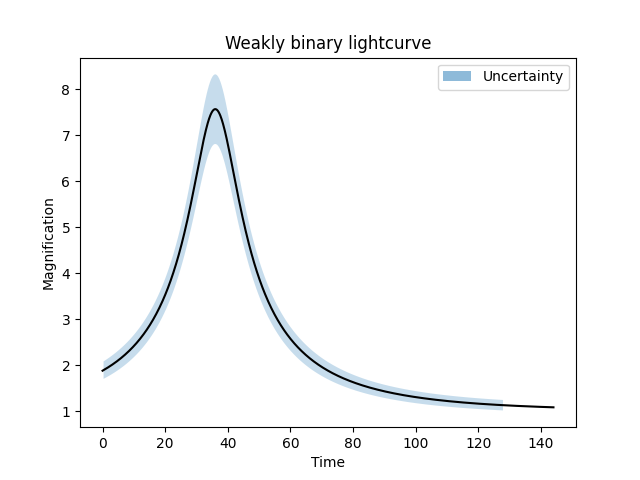
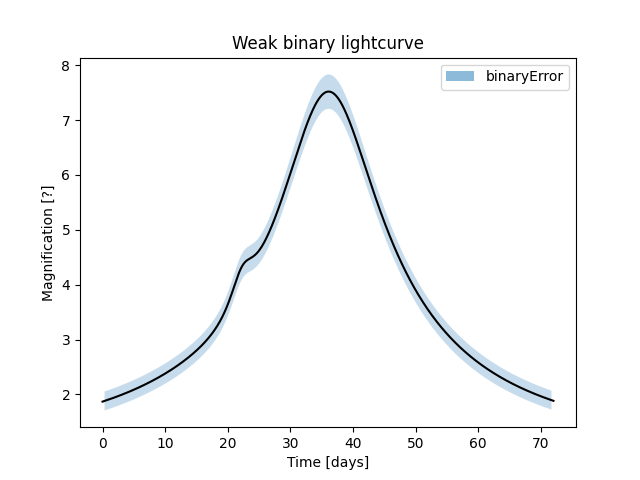
log steps, jacobian

diff --git a/Functions.py b/Functions.py
@@ -10,7 +10,7 @@ from numpy.lib.function_base import cov
 import numpy as np
 from numpy.core.numeric import Inf
 from scipy.stats import truncnorm, lognorm, norm, loguniform, uniform, multivariate_normal
-
+import copy
 
 
 class uniDist(object):
@@ -105,14 +105,14 @@ def AdaptiveMCMC(m, data, theta, priors, covariance, burns, iterations):
     c: a list of values for each iteration, 1 if the move was accepted, 0 otherwise
     '''
 
-    if burns <= 10:
+    if burns <= 0: #
         raise ValueError("Not enough iterations to safely establish an empirical covariance matrix")
     
     # initialise
     d = len(theta)
 
     I = np.identity(d)
-    s = 2.4**2 / d # Arbitrary, good value from Haario et al
+    s = 2.4**2 / d # Arbitrary(ish), good value from Haario et al
     eps = 1e-12 # Needs to be smaller than the scale of parameter values
 
     c = np.zeros((iterations + burns))
@@ -128,7 +128,7 @@ def AdaptiveMCMC(m, data, theta, priors, covariance, burns, iterations):
     for i in range(1, burns): # warm up walk to establish an empirical covariance
         # propose a new state and calculate the resulting likelihood and prior ratio
         proposed = GaussianProposal(theta, covariance)
-        piProposed = logLikelihood(m, data, proposed)
+        piProposed = logLikelihood(m, data, proposed, priors)
         priorRatio = np.exp(PriorRatio(m, m, theta, proposed, priors))
 
         if random.random() < priorRatio * np.exp(piProposed - pi): # metropolis acceptance using log rules
@@ -142,14 +142,14 @@ def AdaptiveMCMC(m, data, theta, priors, covariance, burns, iterations):
         means[:, i] = (means[:, i-1]*i + theta)/(i + 1) # recursive mean (offsets indices starting at zero by one)
 
     # initiliase empirical covaraince
-    covariance = s*np.cov(states) + s*eps*I
+    covariance = s*np.cov(states[:, 0:burns]) + s*eps*I
     
     t = burns # global index
 
     for i in range(iterations): # adaptive walk
         # propose a new state and calculate the resulting likelihood and prior ratio
         proposed = GaussianProposal(theta, covariance)
-        piProposed = logLikelihood(m, data, proposed)
+        piProposed = logLikelihood(m, data, proposed, priors)
         priorRatio = np.exp(PriorRatio(m, m, theta, proposed, priors))
 
         if random.random() < priorRatio * np.exp(piProposed - pi): # metropolis acceptance using log rules
@@ -173,8 +173,9 @@ def AdaptiveMCMC(m, data, theta, priors, covariance, burns, iterations):
     return covariance, states, c
 
 
-'''
+
 def GaussianProposal(theta, covariance):
+    '''
     Takes a single step in a guassian walk process
     ----------------------------------------------
     theta: the parameter values to step from
@@ -183,9 +184,9 @@ def GaussianProposal(theta, covariance):
                 or a complete matrix
 
     Returns: a new point in parameter space
-
+    '''
     return multivariate_normal.rvs(mean = theta, cov = covariance)
-'''
+
 
 
 def RJCenteredProposal(m, mProp, theta, covariance, centers):
@@ -204,7 +205,7 @@ def RJCenteredProposal(m, mProp, theta, covariance, centers):
     Returns: a new point in the parameter space a jump was proposed too
     '''
     
-    if m == mProp: return multivariate_normal.rvs(mean = theta, cov = covariance) # intra-modal move
+    if m == mProp: return GaussianProposal(theta, covariance) # intra-modal move
     
     else: # inter-model move
         l = (theta - centers[m-1]) / centers[m-1] # relative distance from the initial model's centre
@@ -240,6 +241,32 @@ def D(m):
 
 
 
+def unscale(m, theta): ############make this into a class
+    '''
+    Helper function. Maps the model index to the associated 
+    dimensionality in the context of microlensing.
+    --------------------------------------------
+    if m == 1: return 3
+    elif m == 2: return 7
+    else: return 0 
+    '''
+
+    thetaT=copy.deepcopy(theta)
+
+    if m == 1:
+        thetaT[2] = np.exp(theta[2])
+        return thetaT
+    
+    if m == 2:
+        thetaT[2] = np.exp(theta[2])
+        thetaT[3] = np.exp(theta[3])
+        thetaT[4] = np.exp(theta[4])
+        thetaT[5] = np.exp(theta[5])
+        return thetaT
+
+    return 0
+
+
 def PriorRatio(m,mProp,theta,thetaProp,priors):
     '''
     Calculates the ratio of the product of the priors of the proposed point to the
@@ -255,11 +282,18 @@ def PriorRatio(m,mProp,theta,thetaProp,priors):
     productNumerator = 0.
     productDenomenator = 0.
 
+    #print(theta, 99)
+    thetaT = unscale(m, theta)
+    thetaTProp = unscale(mProp, thetaProp)
+    #print(thetaT, 99)
+
     for parameter in range(D(mProp)): # cycle through each parameter and associated prior
-        productNumerator += (priors[parameter].logPDF(thetaProp[parameter])) # product using log rules
+        productNumerator += (priors[parameter].logPDF(thetaTProp[parameter])) # product using log rules
 
     for parameter in range(D(m)): # cycle through each parameter and associated prior
-        productDenomenator += (priors[parameter].logPDF(theta[parameter])) # product using log rules
+        productDenomenator += (priors[parameter].logPDF(thetaT[parameter])) # product using log rules
+    
+    #print(productNumerator, productDenomenator)
     
     return productNumerator - productDenomenator # ratio using log rules
 
@@ -334,14 +368,15 @@ def logLikelihood(m, Data, theta, priors):
     '''
 
     #if PriorBounds(m, theta, priors)==0: return -Inf
+    thetaT = unscale(m, theta)
 
     # check if parameter is not in prior bounds, and ensure it is not accepted if so
     for parameter in range(D(m)):
-        if not priors[parameter].inBounds(theta[parameter]): return -Inf
+        if not priors[parameter].inBounds(thetaT[parameter]): return -Inf
 
     if m==1:
         try: # for when moves are out of bounds of model valididty
-            Model = mm.Model(dict(zip(['t_0', 'u_0', 't_E'], theta)))
+            Model = mm.Model(dict(zip(['t_0', 'u_0', 't_E'], thetaT)))
             Model.set_magnification_methods([0., 'point_source', 72.])
             Event = mm.Event(datasets=Data, model=Model)
 
@@ -353,7 +388,7 @@ def logLikelihood(m, Data, theta, priors):
 
     if m==2:
         try: # check if parameter is not in prior bounds, and ensure it is not accepted if so
-            Model = mm.Model(dict(zip(['t_0', 'u_0', 't_E', 'rho', 'q', 's', 'alpha'], theta)))
+            Model = mm.Model(dict(zip(['t_0', 'u_0', 't_E', 'rho', 'q', 's', 'alpha'], thetaT)))
             Model.set_magnification_methods([0., 'VBBL', 72.]) #?
             Event = mm.Event(datasets=Data, model=Model)
 

diff --git a/ReversibleJump.py b/ReversibleJump.py
@@ -15,13 +15,17 @@ from scipy.stats import truncnorm, loguniform, uniform
 
 # Synthetic Event Parameters
 #Model = mm.Model({'t_0': 36, 'u_0': 0.133, 't_E': 61.5, 'rho': 0.00096, 'q': 0.0039, 's': 1.120, 'alpha': 223.8}) # strong binary
-#Model = mm.Model({'t_0': 36, 'u_0': 0.133, 't_E': 61.5, 'rho': 0.00096, 'q': 0.0004, 's': 1.33, 'alpha': 223.8}) # weak binary
-Model = mm.Model({'t_0': 36, 'u_0': 0.133, 't_E': 61.5, 'rho': 0.00096, 'q': 0.000002, 's': 4.9, 'alpha': 223.8}) # indistiguishable from single
+#Model = mm.Model({'t_0': 36, 'u_0': 0.133, 't_E': 61.5, 'rho': 0.0056, 'q': 0.0009, 's': 1.3, 'alpha': 210.8}) # weak binary
+Model = mm.Model({'t_0': 36, 'u_0': 0.133, 't_E': 61.5, 'rho': 0.00096, 'q': 0.00002, 's': 1.3, 'alpha': 223.8}) # indistiguishable from single
 Model.set_magnification_methods([0., 'VBBL', 72.])
+
+Model.plot_magnification(t_range=[0, 72], subtract_2450000=False, color='black')
+plt.savefig('temp.jpg')
+plt.clf()
 
 # Generate "Synthetic" Lightcurve
 t = Model.set_times(n_epochs = 100)
-error = Model.magnification(t)/5
+error = Model.magnification(t)/20 + 0.25
 Data = mm.MulensData(data_list=[t, Model.magnification(t), error], phot_fmt='flux', chi2_fmt='flux')
 
 # priors (Zhang et al)
@@ -35,11 +39,11 @@ rho_pi =  f.logUniDist(10**-4, 10**-2)
 priors = [t0_pi, u0_pi,  tE_pi, rho_pi,  q_pi, s_pi, alpha_pi]
 
 # centreing points for inter-model jumps
-center_1 = np.array([36., 0.133, 61.5])
+center_1 = np.array([36., 0.133, np.log(61.5)])
 #center_1 = np.array([36., 0.133, 61.5])
-
-center_2 = np.array([36, 0.133, 61.5, 0.00096, 0.000002, 3.3, 223.8]) # nice results for adaption
-#center_2 = np.array([36., 0.133, 61.5, 0.0014, 0.00096, 1.2, 224.]) # nice results for model
+#center_2 = np.array([36, 0.133, 61.5, 0.00096, 0.000002, 3.3, 223.8]) # nice results for adaption
+#center_2 = np.array([36., 0.133, np.log(61.5), np.log(0.005), np.log(0.0007), np.log(1.25), 210.]) # nice results for model
+center_2 = np.array([36., 0.133, np.log(61.5), np.log(0.0009), np.log(0.00007), np.log(1.25), 221.])
 
 # print(np.exp(f.logLikelihood(1, Data, center_1)))
 # print(np.exp(f.logLikelihood(2, Data, center_2)))
@@ -61,27 +65,31 @@ covariance_2p, states_2, c_2 = f.AdaptiveMCMC(2, Data, theta_2i, priors, covaria
 '''
 
 # loop specefic values
-iterations = 200
+iterations = 100
 
-theta = [36., 0.133, 61.5, 0.0014, 0.0009, 1.26, 224.]
-m = 2
-pi = np.exp(f.logLikelihood(m, Data, theta))
+theta = [36., 0.133, np.log(61.5)]#, 0.0014, 0.0009, 1.26, 224.]
+m = 1
+pi = np.exp(f.logLikelihood(m, Data, theta, priors))
 
 ms = np.zeros(iterations, dtype=int)
 ms[0] = m
 states = []
 score = 0
-J = 1 # THIS IS NOT CORRECT
+J_2 = np.prod(center_2[0:3])
+J_1 = np.prod(center_1)
+J = np.abs([J_1/J_2, J_2/J_1])
+print(J)
+
 
 for i in range(iterations): # loop through RJMCMC steps
 
     mProp = random.randint(1,2) # since all models are equally likelly, this has no presence in the acceptance step
     thetaProp = f.RJCenteredProposal(m, mProp, theta, covariance_p[mProp-1], centers) #print('prop: '+str(thetaProp))
-    piProp = np.exp(f.logLikelihood(mProp, Data, thetaProp))
+    piProp = np.exp(f.logLikelihood(mProp, Data, thetaProp, priors))
 
     priorRatio = np.exp(f.PriorRatio(m, mProp, theta, thetaProp, priors))
     
-    if random.random() <= piProp/pi * priorRatio * J: # metropolis acceptance
+    if random.random() <= piProp/pi * priorRatio * J[mProp-1]: # metropolis acceptance
         theta = thetaProp
         m = mProp
         score += 1
@@ -104,16 +112,27 @@ markerSize=50
 
 states_2 = [] 
 for i in range(iterations): # record all binary model states in the chain
-    if ms[i] == 2: states_2.append(states[i])
+    if ms[i] == 2: states_2.append(f.unscale(2, states[i]))
 states_2=np.array(states_2)
 
-plt.scatter((states_2[:,5]), (states_2[:,4]), alpha=0.25)
+
+meanState_2 = np.median((states_2), axis=0)
+print(meanState_2)
+MeanModel_2 = mm.Model(dict(zip(['t_0', 'u_0', 't_E', 'rho', 'q', 's', 'alpha'], meanState_2)))
+MeanModel_2.set_magnification_methods([0., 'VBBL', 72.])
+Model.plot_magnification(t_range=[0, 72], subtract_2450000=False, color='black')
+MeanModel_2.plot_magnification(t_range=[0, 72], subtract_2450000=False, color='red')
+plt.savefig('Plots/BinaryFit.png')
+plt.clf()
+
+
+plt.scatter(states_2[:,5], ((states_2[:,4])), alpha=0.25)
 plt.xlabel('s [Einstein Ring Radius]')
 plt.ylabel('q [Unitless]')
 plt.title('RJ binary model walk through Mass Fraction / Separation space\nwith centreing function')
-plt.scatter(states_2[0,5], states_2[0,4], c=[(0,1,0)], marker='2', label='Initial\nPosition', s=markerSize)
-plt.scatter(center_2[5], center_2[4], c=[(1,0,0)], marker='2', label='Centreing\npoint', s=markerSize)
-plt.scatter(1.33, 0.0004, c=[(0,0,1)], marker='2', label='True', s=markerSize)
+plt.scatter((states_2[0,5]), (states_2[0,4]), c=[(0,1,0)], marker='2', label='Initial\nPosition', s=markerSize)
+plt.scatter((center_2[5]), (center_2[4]), c=[(1,0,0)], marker='2', label='Centreing\npoint', s=markerSize)
+plt.scatter(1.3, 0.0009, c=[(0,0,1)], marker='2', label='True', s=markerSize)
 plt.legend()
 plt.savefig('Plots/RJ-binary-Walk.png')
 plt.clf()
@@ -121,8 +140,19 @@ plt.clf()
 
 states_1 = []
 for i in range(iterations): # record all single model states in the chain
-    if ms[i] == 1: states_1.append(states[i])
+    if ms[i] == 1: states_1.append(f.unscale(1, states[i]))
 states_1=np.array(states_1)
+
+
+meanState_1 = np.median((states_1), axis=0)
+MeanModel_1 = mm.Model(dict(zip(['t_0', 'u_0', 't_E'], meanState_1)))
+MeanModel_1.set_magnification_methods([0., 'point_source', 72.])
+Model.plot_magnification(t_range=[0, 72], subtract_2450000=False, color='black')
+MeanModel_1.plot_magnification(t_range=[0, 72], subtract_2450000=False, color='red')
+plt.savefig('Plots/SingleFit.png')
+plt.clf()
+
+
 
 plt.scatter((states_1[:,2]), (states_1[:,1]), alpha=0.25)
 plt.xlabel('u0 [?]')

diff --git a/light-curve-test.py b/light-curve-test.py
@@ -19,7 +19,7 @@ def chi2(t_0, u_0, t_E, rho, q, s, alpha, Data):
 
 # Synthetic Events
 #BinaryModel = mm.Model({'t_0': 36, 'u_0': 0.133, 't_E': 61.5, 'rho': 0.00096, 'q': 0.0039, 's': 1.120, 'alpha': 223.8})
-BinaryModel = mm.Model({'t_0': 36, 'u_0': 0.133, 't_E': 61.5, 'rho': 0.00096, 'q': 0.000002, 's': 4.2, 'alpha': 223.8})
+BinaryModel = mm.Model({'t_0': 36, 'u_0': 0.133, 't_E': 61.5, 'rho': 0.0056, 'q': 0.0009, 's': 1.3, 'alpha': 210.8})
 BinaryModel.set_magnification_methods([0., 'VBBL', 72.])
 
 SingleModel = mm.Model({'t_0': 36, 'u_0': 0.133, 't_E': 61.5})
@@ -27,8 +27,8 @@ SingleModel.set_magnification_methods([0., 'point_source', 72.])
 
 # initialise
 t = BinaryModel.set_times(n_epochs = 500)
-i = np.where(np.logical_and(t >= 0, t <= 72))
-binaryError = BinaryModel.magnification(t[i]) / 5
+i = np.where(np.logical_and(0 <= t, t <= 72))
+binaryError = BinaryModel.magnification(t[i])/20 + 0.25
 
 
 
@@ -56,11 +56,11 @@ plt.ylabel('Magnification [?]')
 plt.savefig('Plots/curve-single.png')
 plt.clf()
 
-
+r=r
 
 ## PLOT POSTERIOR SURFACES ##
 
-Data = mm.MulensData(data_list=[t, BinaryModel.magnification(t), binaryError], phot_fmt='flux', chi2_fmt='flux')
+Data = mm.MulensData(data_list=[t, BinaryModel.magnification(t), BinaryModel.magnification(t)/20 + 0.25], phot_fmt='flux', chi2_fmt='flux')
 
 density = 5
 print(chi2(36, 0.133, 61.5, 0.00096, 0.0039, 1.120, 223.8, Data))

diff --git a/AdaptiveMCMC.py b/AdaptiveMCMC.py
@@ -9,6 +9,40 @@ import numpy as np
 import matplotlib.pyplot as plt
 from scipy.stats import truncnorm, loguniform, uniform
 
+# TESTING
+
+states = np.zeros((2, 3))
+states[:, 0] = [1, 0.5]
+
+means = np.zeros((2, 3))
+means[:, 0] = [1, 0.5]
+
+t=1
+theta = [2, 0.75]
+states[:, t] = theta
+means[:, t] = (means[:, t-1]*t + theta)/(t + 1) # recursive mean (offsets indices starting at zero by one)
+
+
+#print(states[:, 0:2])
+
+t=2
+theta = [0.75, 1]
+states[:, 2] = theta
+means[:, t] = (means[:, t-1]*t + theta)/(t + 1) # recursive mean (offsets indices starting at zero by one)
+#print(means)
+
+covariance = np.cov(np.transpose(states[:, 0:2]))
+print(covariance)
+
+# update step (recursive covariance)
+covariance = (t-1)/t * covariance + (1/t) * (t*np.outer(means[:, t - 1], means[:, t - 1]) - (t + 1)*np.outer(means[:, t-0], means[:, t-0]) + np.outer(states[:, t-0], states[:, t-0]))
+
+print(covariance)
+print(np.cov(states))
+print((1/t) * (t*(means[:, t - 1].T).dot(means[:, t - 1]) - (t + 1)*(means[:, t-0].T).dot(means[:, t-0]) + (states[:, t-0].T).dot(states[:, t-0])))
+print(np.outer(means[:, t-0], means[:, t-0].T))
+
+g=h
 
 # INITIALISATION
 
